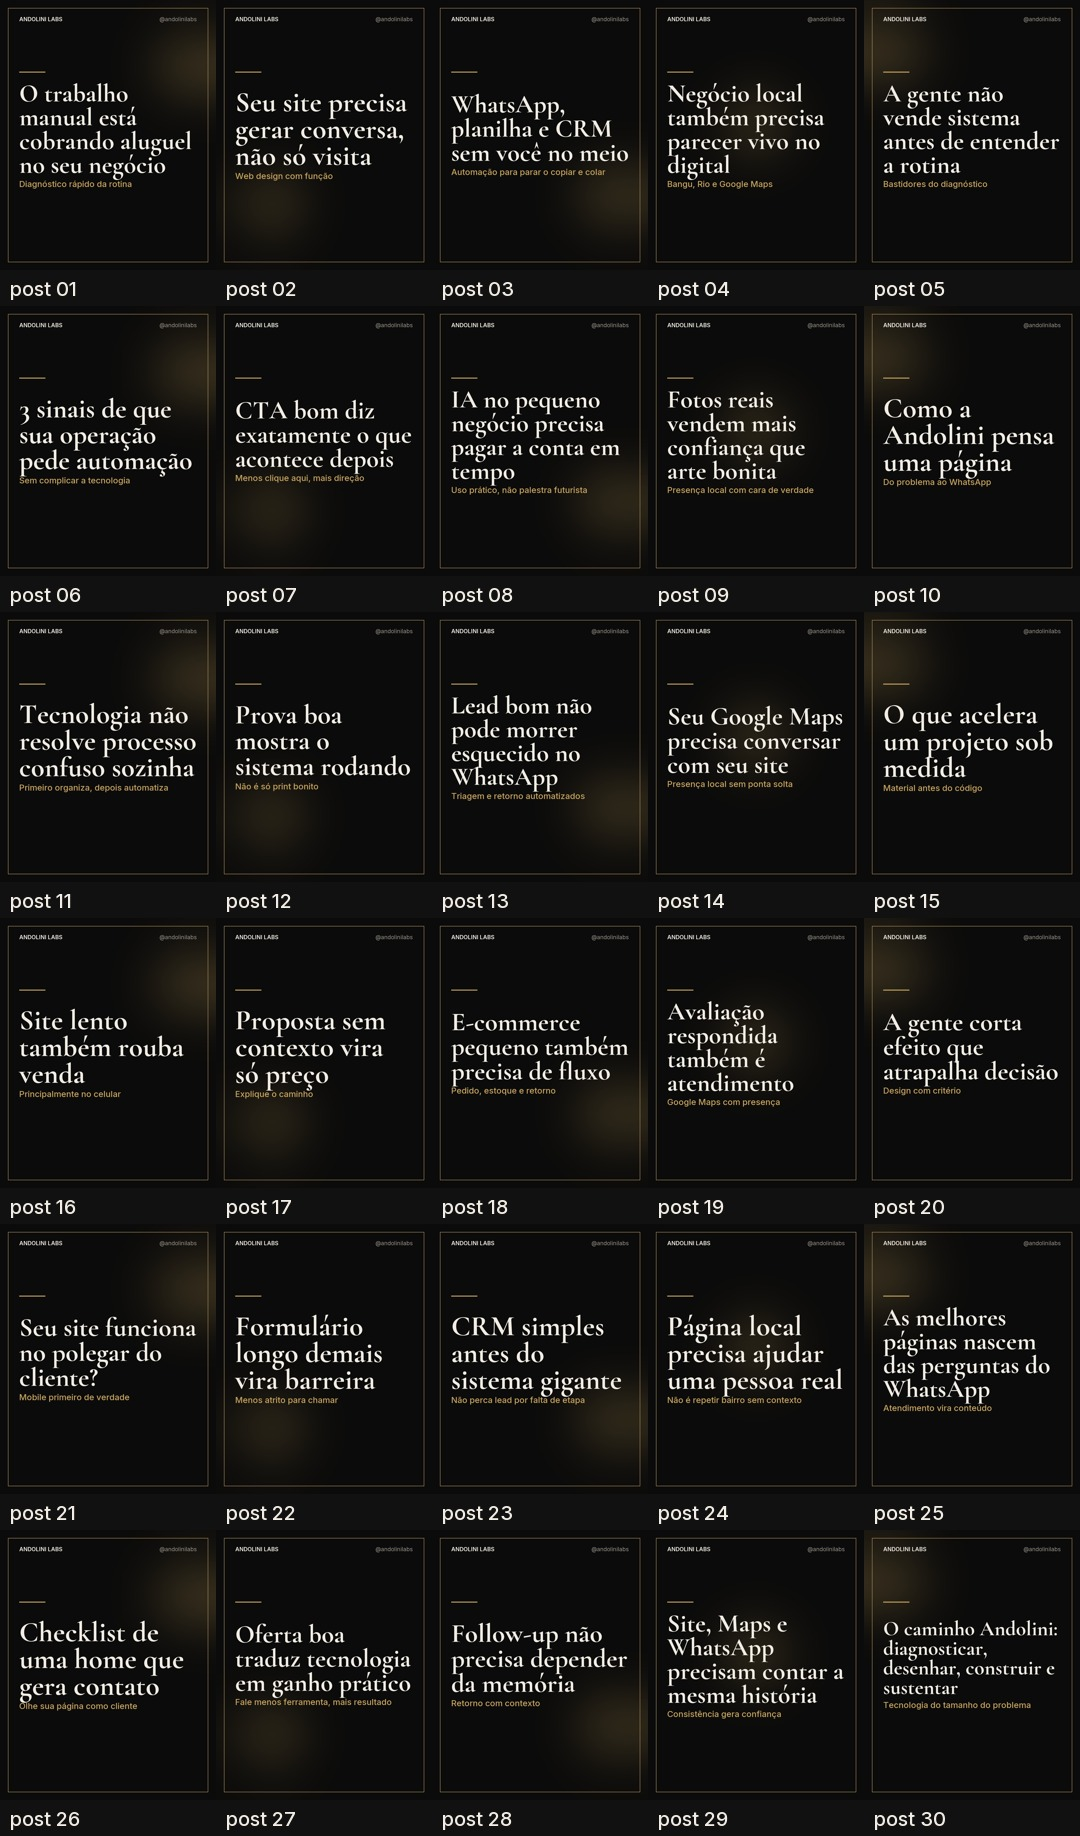
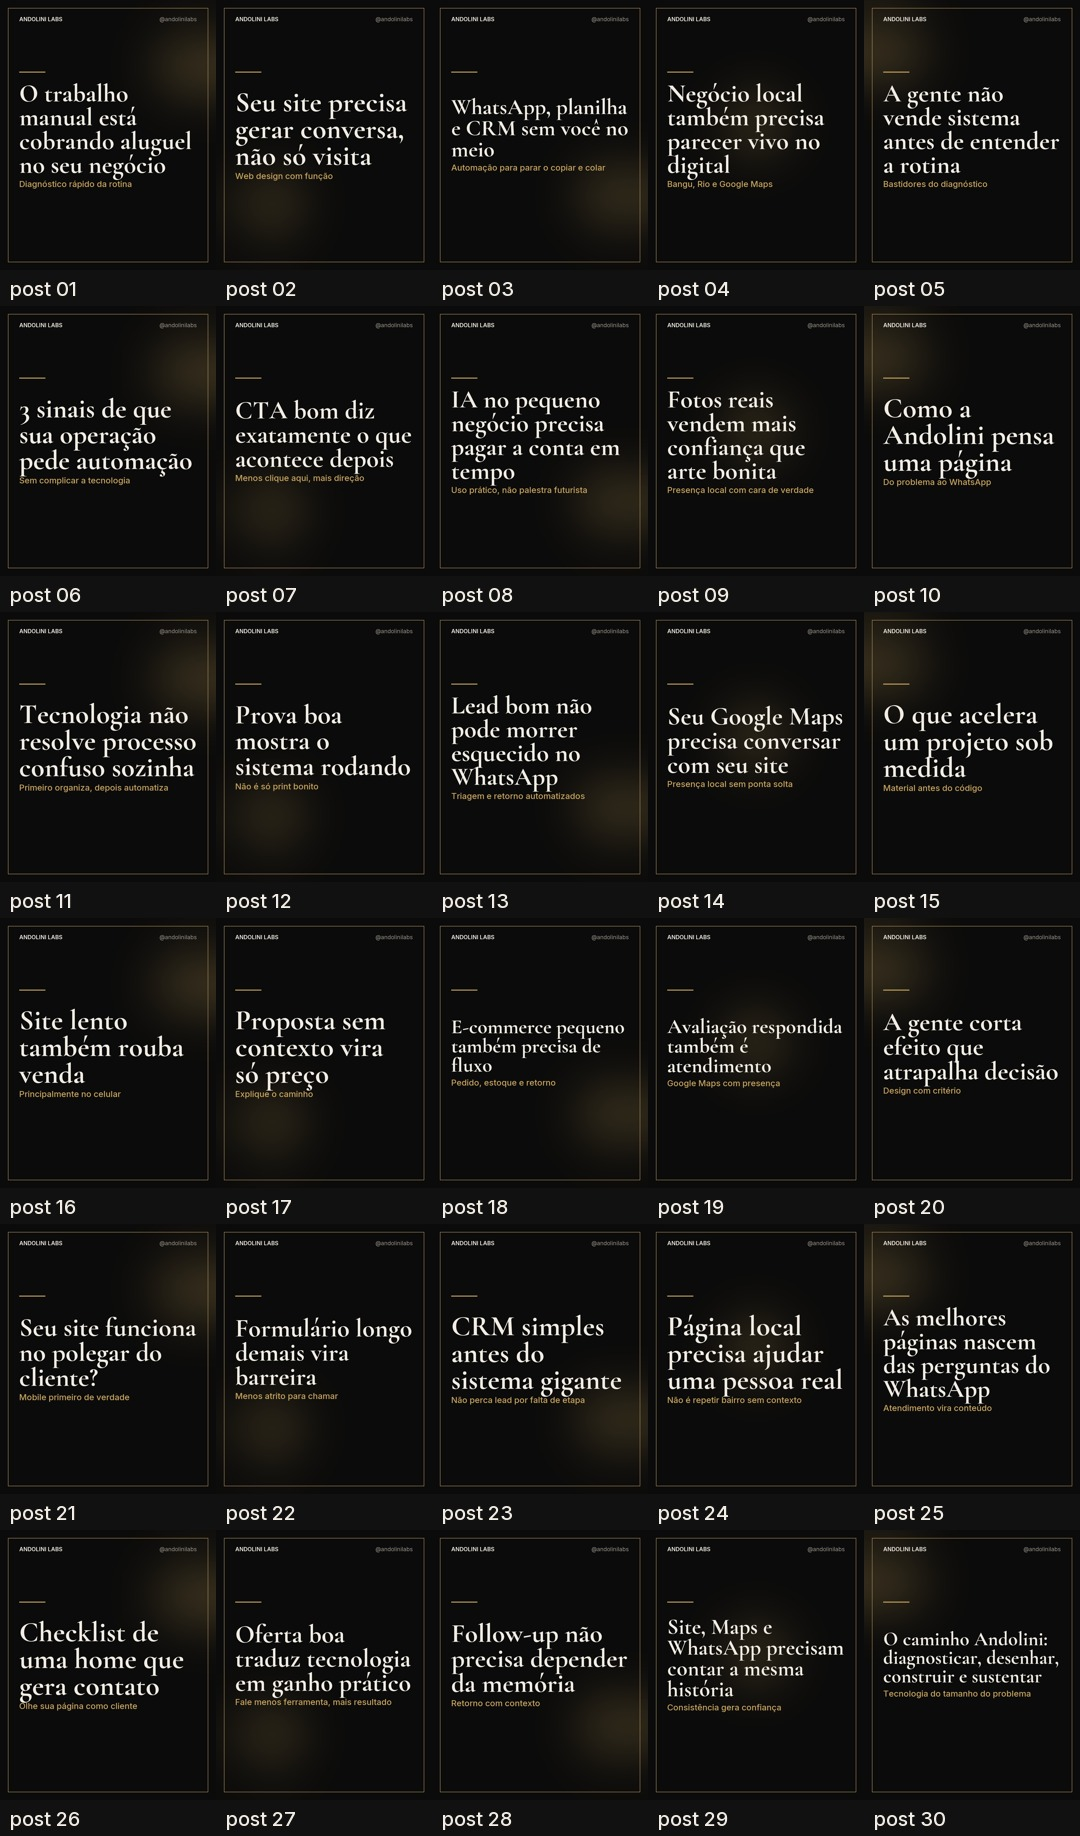
Fix short cover line breaks

diff --git a/generate.py b/generate.py
@@ -87,7 +87,16 @@ def balance_short_lines(draw, lines, font, max_width):
     return balanced
 
 
-def fit_lines(draw, text, font_name, max_size, min_size, max_width, max_height=None, variation="Regular", line_spacing=1.2):
+def has_short_lines(draw, lines, font, max_width):
+    for line in lines[:-1]:
+        stripped = line.strip()
+        if stripped and not stripped.startswith("✓"):
+            if len(stripped.split()) <= 1 or text_size(draw, stripped, font)[0] < max_width * 0.28:
+                return True
+    return False
+
+
+def fit_lines(draw, text, font_name, max_size, min_size, max_width, max_height=None, variation="Regular", line_spacing=1.2, avoid_short_lines=True):
     for size in range(max_size, min_size - 1, -2):
         font = font_name(size, variation)
         avg = max(8, int(max_width / max(size * 0.43, 1)))
@@ -109,7 +118,10 @@ def fit_lines(draw, text, font_name, max_size, min_size, max_width, max_height=N
         raw_lines = balance_short_lines(draw, raw_lines, font, max_width)
         line_h = int(size * line_spacing)
         total_h = line_h * len(raw_lines)
-        if (max_height is None or total_h <= max_height) and all(text_size(draw, line, font)[0] <= max_width for line in raw_lines):
+        lines_fit = all(text_size(draw, line, font)[0] <= max_width for line in raw_lines)
+        if avoid_short_lines and has_short_lines(draw, raw_lines, font, max_width):
+            continue
+        if (max_height is None or total_h <= max_height) and lines_fit:
             return font, raw_lines, line_h, total_h
     font = font_name(min_size, variation)
     return font, textwrap.wrap(str(text), width=24), int(min_size * line_spacing), int(min_size * line_spacing)
